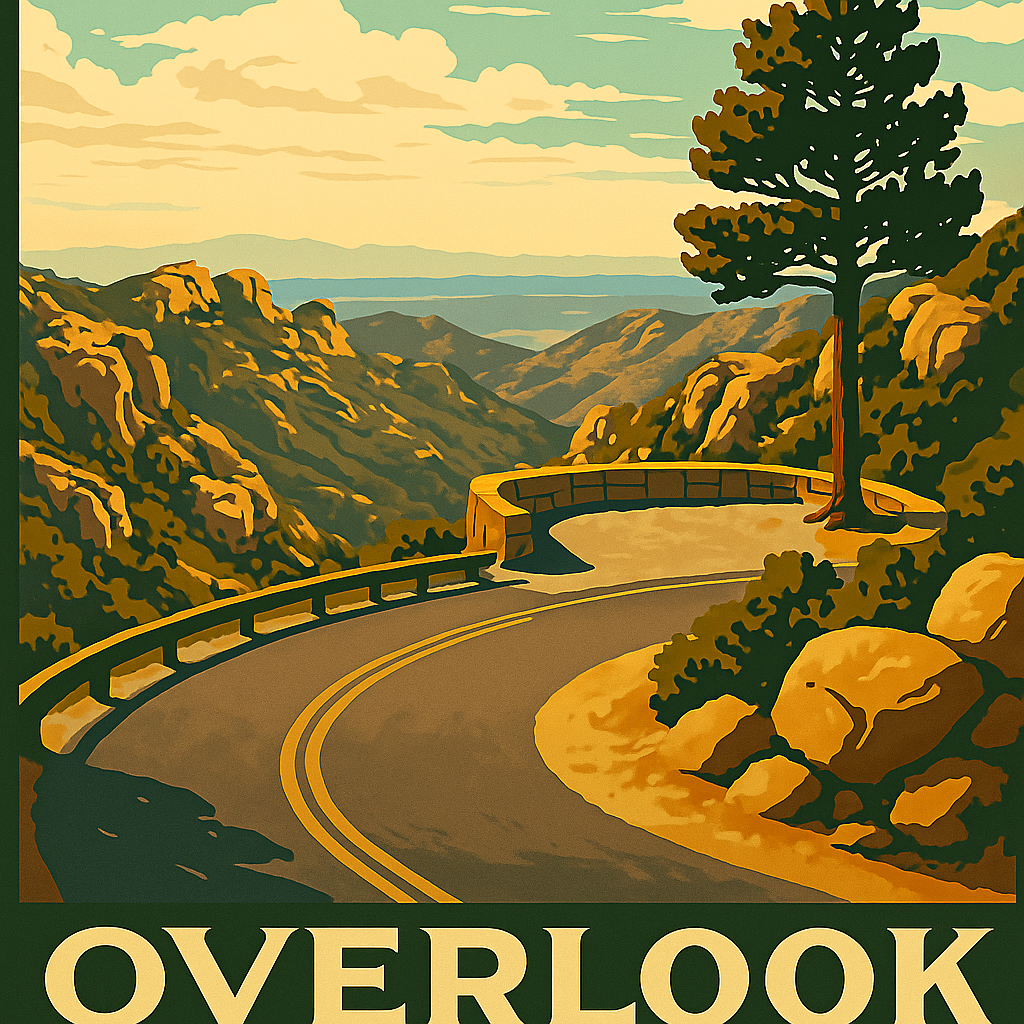
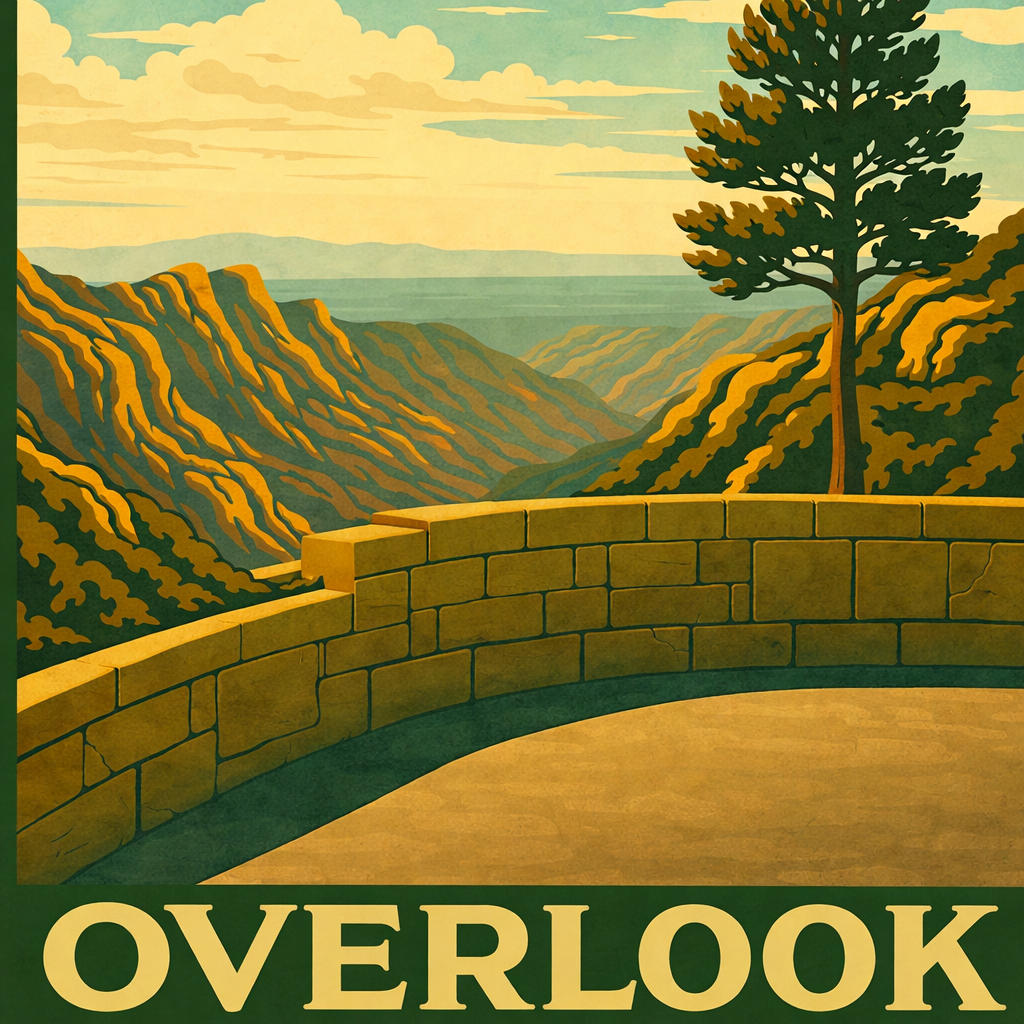
added website

diff --git a/site/style.css b/site/style.css
@@ -1,0 +1,270 @@
+* {
+    margin: 0;
+    padding: 0;
+    box-sizing: border-box;
+}
+
+/* Dark theme (default) */
+:root {
+    --bg: #1a2421;
+    --bg-card: #232f2b;
+    --text: #e8e4d9;
+    --text-muted: #a8a089;
+    --accent: #c9a227;
+    --accent-hover: #d4b33a;
+    --border: #3a4a44;
+    --teal: #3a6b6b;
+}
+
+/* Light theme */
+@media (prefers-color-scheme: light) {
+    :root {
+        --bg: #f5f2e8;
+        --bg-card: #ffffff;
+        --text: #2a3a34;
+        --text-muted: #5a6a60;
+        --accent: #b89220;
+        --accent-hover: #9a7a18;
+        --border: #d4cbb8;
+        --teal: #3a6b6b;
+    }
+}
+
+body {
+    font-family: -apple-system, BlinkMacSystemFont, "Segoe UI", Roboto, Helvetica, Arial, sans-serif;
+    background: var(--bg);
+    color: var(--text);
+    line-height: 1.6;
+}
+
+/* Header */
+header {
+    position: fixed;
+    top: 0;
+    left: 0;
+    right: 0;
+    background: color-mix(in srgb, var(--bg) 90%, transparent);
+    backdrop-filter: blur(10px);
+    border-bottom: 1px solid var(--border);
+    z-index: 100;
+}
+
+@supports not (background: color-mix(in srgb, red 50%, blue)) {
+    header {
+        background: var(--bg);
+    }
+}
+
+nav {
+    max-width: 1200px;
+    margin: 0 auto;
+    padding: 1rem 2rem;
+    display: flex;
+    justify-content: space-between;
+    align-items: center;
+}
+
+.logo {
+    display: flex;
+    align-items: center;
+    gap: 0.75rem;
+    font-size: 1.25rem;
+    font-weight: 600;
+}
+
+.logo-img {
+    height: 32px;
+    width: auto;
+}
+
+/* Buttons */
+.btn {
+    display: inline-block;
+    padding: 0.625rem 1.25rem;
+    border-radius: 6px;
+    font-weight: 500;
+    text-decoration: none;
+    transition: all 0.2s;
+}
+
+.btn-primary {
+    background: var(--accent);
+    color: white;
+}
+
+.btn-primary:hover {
+    background: var(--accent-hover);
+}
+
+.btn-large {
+    padding: 0.875rem 2rem;
+    font-size: 1.1rem;
+}
+
+/* Main content */
+main {
+    max-width: 1200px;
+    margin: 0 auto;
+    padding: 0 2rem;
+}
+
+/* Hero */
+.hero {
+    padding: 10rem 0 6rem;
+    text-align: center;
+}
+
+.hero-image {
+    width: 400px;
+    height: auto;
+    margin-bottom: 2rem;
+}
+
+.hero h1 {
+    font-size: 3.5rem;
+    font-weight: 700;
+    line-height: 1.1;
+    margin-bottom: 1.5rem;
+}
+
+.subtitle {
+    font-size: 1.25rem;
+    color: var(--text-muted);
+    max-width: 600px;
+    margin: 0 auto 2.5rem;
+}
+
+/* Features */
+.features {
+    padding: 4rem 0;
+}
+
+.features h2 {
+    font-size: 2rem;
+    margin-bottom: 3rem;
+    text-align: center;
+}
+
+.feature-grid {
+    display: grid;
+    grid-template-columns: repeat(2, 1fr);
+    gap: 2rem;
+}
+
+.feature {
+    background: var(--bg-card);
+    border: 1px solid var(--border);
+    border-radius: 12px;
+    padding: 2rem;
+}
+
+.feature h3 {
+    font-size: 1.25rem;
+    margin-bottom: 0.75rem;
+}
+
+.feature p {
+    color: var(--text-muted);
+}
+
+.provider-list {
+    list-style: none;
+    margin-top: 1.25rem;
+    display: flex;
+    flex-wrap: wrap;
+    gap: 0.5rem;
+}
+
+.provider-list li {
+    background: var(--bg);
+    border: 1px solid var(--border);
+    padding: 0.375rem 0.75rem;
+    border-radius: 4px;
+    font-size: 0.875rem;
+}
+
+.tag {
+    font-size: 0.7rem;
+    color: var(--teal);
+    margin-left: 0.25rem;
+}
+
+/* Purchase */
+.purchase {
+    padding: 6rem 0;
+    text-align: center;
+}
+
+.purchase h2 {
+    font-size: 2rem;
+    margin-bottom: 2rem;
+}
+
+.price-card {
+    background: var(--bg-card);
+    border: 1px solid var(--border);
+    border-radius: 16px;
+    padding: 3rem;
+    max-width: 400px;
+    margin: 0 auto;
+}
+
+.price {
+    margin-bottom: 2rem;
+}
+
+.amount {
+    font-size: 4rem;
+    font-weight: 700;
+}
+
+.period {
+    font-size: 1.25rem;
+    color: var(--text-muted);
+}
+
+.includes {
+    list-style: none;
+    margin-bottom: 2rem;
+    text-align: left;
+}
+
+.includes li {
+    padding: 0.5rem 0;
+    border-bottom: 1px solid var(--border);
+    color: var(--text-muted);
+}
+
+.includes li:last-child {
+    border-bottom: none;
+}
+
+.includes li::before {
+    content: "✓";
+    color: var(--accent);
+    margin-right: 0.75rem;
+}
+
+/* Footer */
+footer {
+    border-top: 1px solid var(--border);
+    padding: 2rem;
+    text-align: center;
+    color: var(--text-muted);
+    font-size: 0.875rem;
+}
+
+/* Responsive */
+@media (max-width: 768px) {
+    .hero h1 {
+        font-size: 2.5rem;
+    }
+
+    .feature-grid {
+        grid-template-columns: 1fr;
+    }
+
+    nav {
+        padding: 1rem;
+    }
+}

diff --git a/site/index.html b/site/index.html
@@ -1,0 +1,82 @@
+<!DOCTYPE html>
+<html lang="en">
+<head>
+    <meta charset="UTF-8">
+    <meta name="viewport" content="width=device-width, initial-scale=1.0">
+    <title>Overlook - Native Desktop AI Chat Client</title>
+    <link rel="stylesheet" href="style.css">
+</head>
+<body>
+    <header>
+        <nav>
+            <div class="logo">
+                <img src="../assets/overlook.png" alt="Overlook" class="logo-img">
+                <span>Overlook</span>
+            </div>
+            <a href="#purchase" class="btn btn-primary">Buy Now - $29/year</a>
+        </nav>
+    </header>
+
+    <main>
+        <section class="hero">
+            <img src="../assets/overlook.png" alt="Overlook" class="hero-image">
+            <h1>Your AI conversations,<br>your computer.</h1>
+            <p class="subtitle">A native desktop client for chatting with LLMs. No browser tabs, no servers to run. Just a fast, private app that works.</p>
+            <a href="#purchase" class="btn btn-primary btn-large">Get Overlook - $29/year</a>
+        </section>
+
+        <section class="features">
+            <h2>Features</h2>
+
+            <div class="feature-grid">
+                <div class="feature">
+                    <h3>Multiple Providers</h3>
+                    <p>Connect to the AI services you already use. Overlook supports OpenRouter, OpenAI, Anthropic, and local models through LM Studio and Ollama.</p>
+                    <ul class="provider-list">
+                        <li>OpenRouter</li>
+                        <li>OpenAI</li>
+                        <li>Anthropic</li>
+                        <li>LM Studio <span class="tag">local</span></li>
+                        <li>Ollama <span class="tag">local</span></li>
+                    </ul>
+                </div>
+
+                <div class="feature">
+                    <h3>Native Desktop App</h3>
+                    <p>Overlook runs directly on your computer as a native application. No web server to configure, no Docker containers to manage, no browser tabs to lose. Just launch and chat.</p>
+                </div>
+
+                <div class="feature">
+                    <h3>Free Web Search</h3>
+                    <p>Give your AI conversations access to the web. Overlook includes a built-in web search tool at no extra cost, so your models can find current information when you need it.</p>
+                </div>
+
+                <div class="feature">
+                    <h3>Export Your Chats</h3>
+                    <p>Your conversations belong to you. Export any chat to Markdown for archiving, sharing, or using in your own workflows.</p>
+                </div>
+            </div>
+        </section>
+
+        <section id="purchase" class="purchase">
+            <h2>Get Overlook</h2>
+            <div class="price-card">
+                <div class="price">
+                    <span class="amount">$29</span>
+                    <span class="period">/year</span>
+                </div>
+                <ul class="includes">
+                    <li>All features included</li>
+                    <li>Continuous updates</li>
+                    <li>macOS, Windows, Linux</li>
+                </ul>
+                <a href="#" class="btn btn-primary btn-large">Purchase Now</a>
+            </div>
+        </section>
+    </main>
+
+    <footer>
+        <p>&copy; 2025 Overlook. All rights reserved.</p>
+    </footer>
+</body>
+</html>
